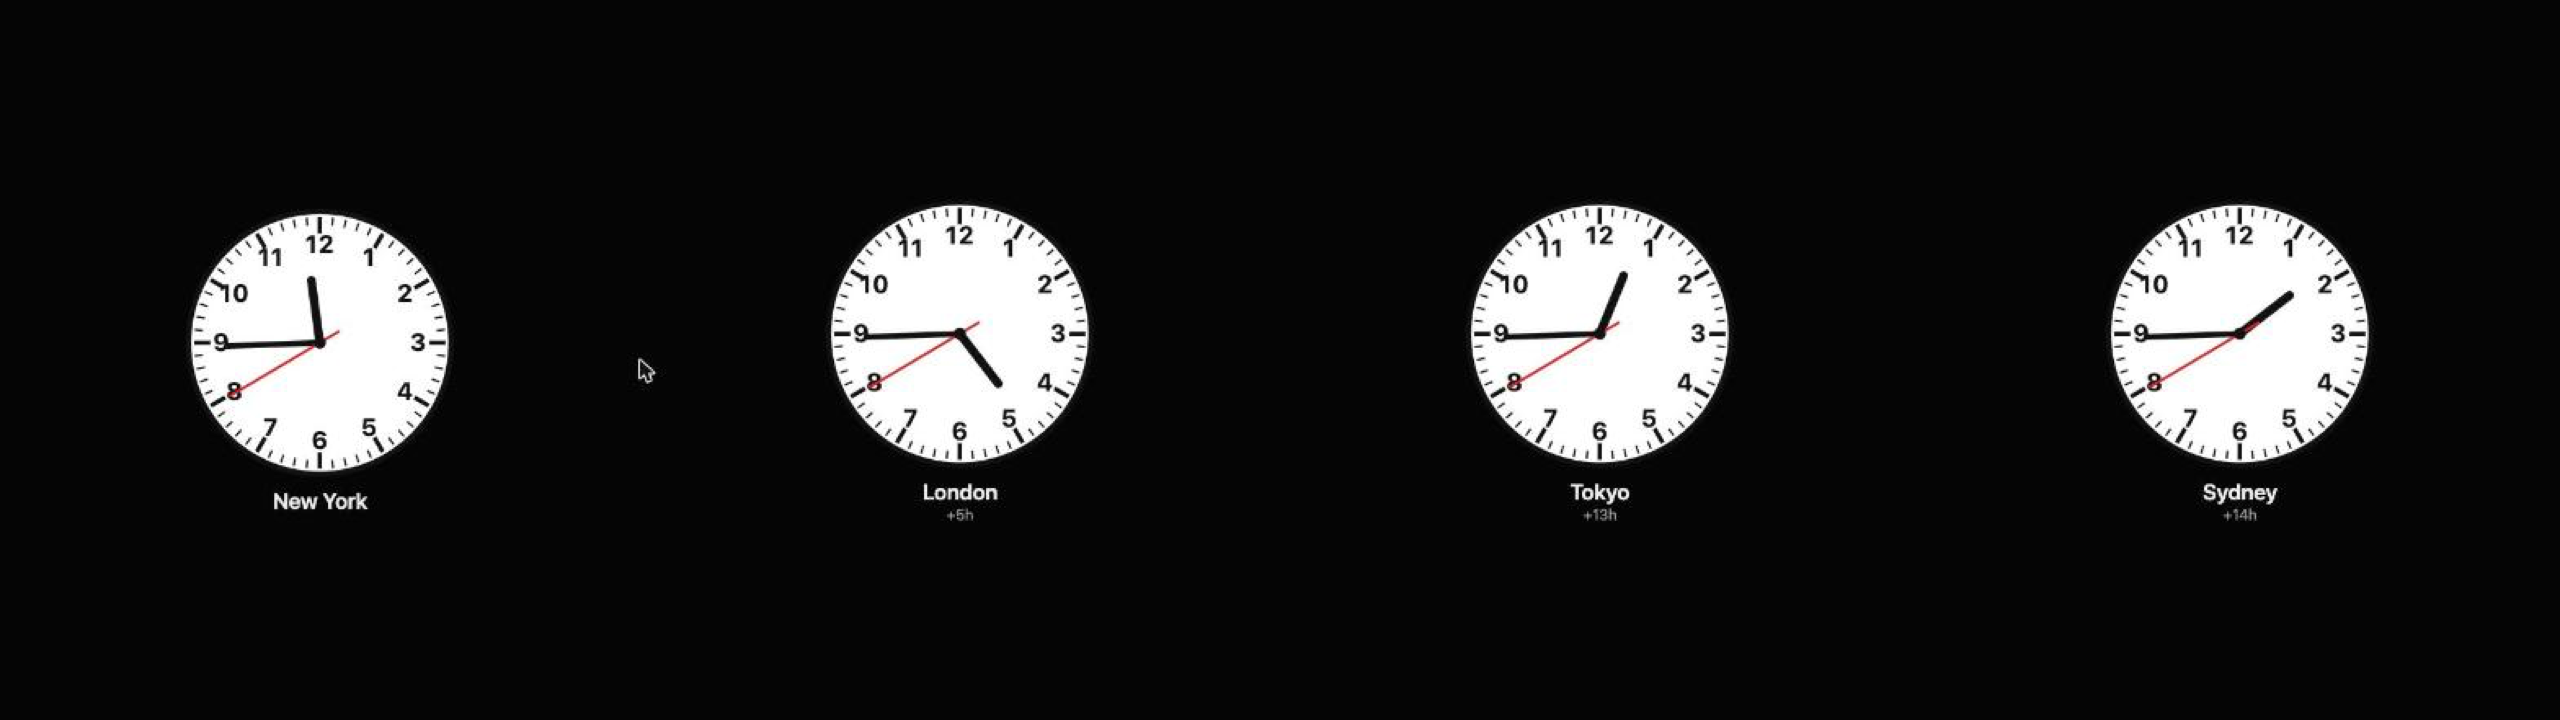
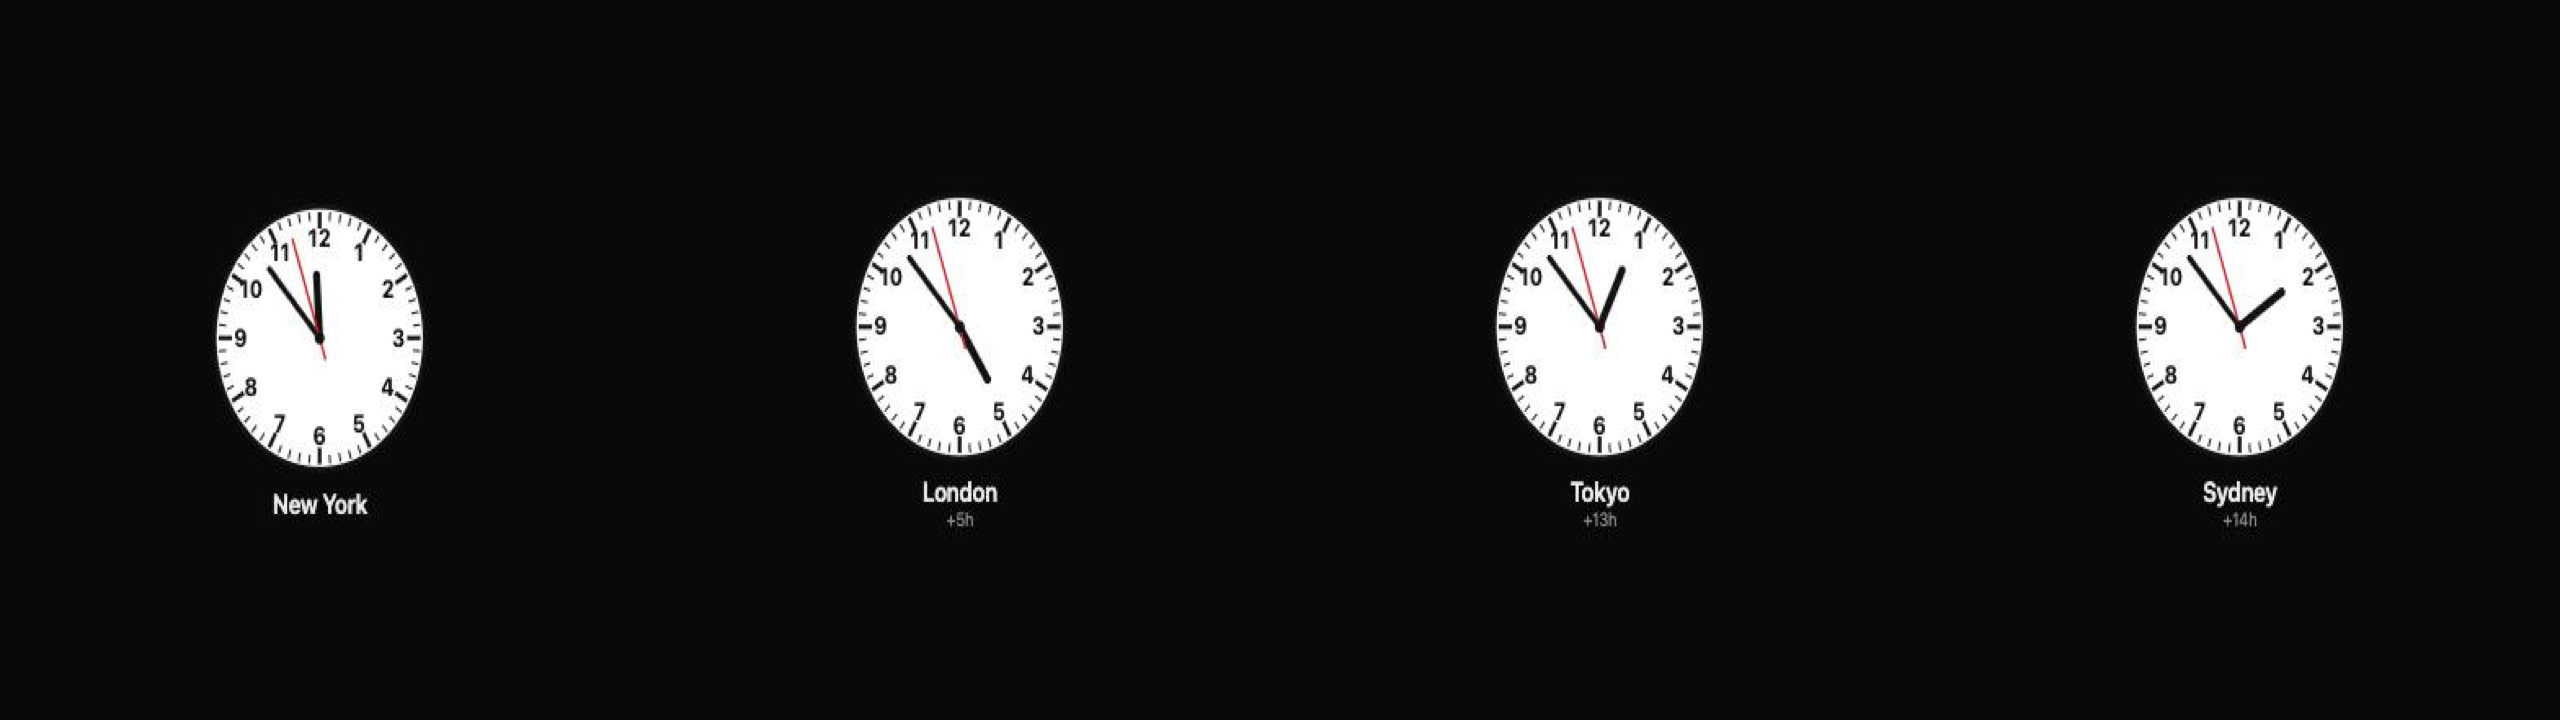
World Clocks: fix cursor-in-screenshot, backward hand spin, duplicate ids
- Re-capture world-clocks-8x2.png with the cursor out of frame (2560x720).
- tick() now uses setHandAngle(), which only ever increases each hand's
  stored rotation angle (adding 360 as needed) so the CSS transition never
  animates backwards at minute/hour/12h boundaries.
- Hand <line> elements use classes (hand-hour/minute/second) instead of
  duplicate ids across clock slots; updated all lookups and the CSS
  transition selector accordingly.

diff --git a/com.vardek.world-clocks/index.html b/com.vardek.world-clocks/index.html
@@ -21,7 +21,7 @@
     padding: clamp(4px, 1vw, 16px);
   }
   .clock-slot svg { width: 100%; height: auto; max-width: min(38vh, 90%); }
-  .clock-slot svg line[id^="hand-"] { transition: transform 0.15s ease-out; }
+  .clock-slot svg .hand { transition: transform 0.15s ease-out; }
   .city-name { color: #eee; font-family: ui-sans-serif, system-ui, sans-serif;
     font-weight: 600; font-size: clamp(11px, 1.6vw, 22px); margin-top: 0.4em; }
   .city-diff { color: #999; font-family: ui-sans-serif, system-ui, sans-serif;
@@ -215,11 +215,11 @@
     }
     svg.appendChild(numerals);
 
-    svg.appendChild(svgEl("line", { id: "hand-hour", x1: 50, y1: 50, x2: 50, y2: 27,
+    svg.appendChild(svgEl("line", { class: "hand hand-hour", x1: 50, y1: 50, x2: 50, y2: 27,
       stroke: "#111", "stroke-width": 3.2, "stroke-linecap": "round" }));
-    svg.appendChild(svgEl("line", { id: "hand-minute", x1: 50, y1: 50, x2: 50, y2: 16,
+    svg.appendChild(svgEl("line", { class: "hand hand-minute", x1: 50, y1: 50, x2: 50, y2: 16,
       stroke: "#111", "stroke-width": 2.2, "stroke-linecap": "round" }));
-    svg.appendChild(svgEl("line", { id: "hand-second", x1: 50, y1: 58, x2: 50, y2: 12,
+    svg.appendChild(svgEl("line", { class: "hand hand-second", x1: 50, y1: 58, x2: 50, y2: 12,
       stroke: "#d81c1c", "stroke-width": 1, "stroke-linecap": "round" }));
 
     svg.appendChild(svgEl("circle", { cx: 50, cy: 50, r: 2.2, fill: "#111" }));
@@ -238,6 +238,13 @@
     parts.forEach(function (x) { p[x.type] = x.value; });
     var h = Number(p.hour) % 24;
     return { h: h, m: Number(p.minute), s: Number(p.second), ms: now.getMilliseconds() };
+  }
+
+  function setHandAngle(el, deg) {
+    var prev = Number(el.dataset.deg || 0);
+    while (deg < prev) deg += 360;
+    el.dataset.deg = deg;
+    el.setAttribute("transform", "rotate(" + deg + " 50 50)");
   }
 
   function angles(parts) {
@@ -298,12 +305,12 @@
       var cityStr = slot.dataset.city;
       var tz = TZ_BY_CITY[cityStr];
       var a = angles(partsFor(tz));
-      var hourHand = slot.querySelector("#hand-hour");
-      var minHand = slot.querySelector("#hand-minute");
-      var secHand = slot.querySelector("#hand-second");
-      hourHand.setAttribute("transform", "rotate(" + a.hourDeg + " 50 50)");
-      minHand.setAttribute("transform", "rotate(" + a.minDeg + " 50 50)");
-      secHand.setAttribute("transform", "rotate(" + a.secDeg + " 50 50)");
+      var hourHand = slot.querySelector(".hand-hour");
+      var minHand = slot.querySelector(".hand-minute");
+      var secHand = slot.querySelector(".hand-second");
+      setHandAngle(hourHand, a.hourDeg);
+      setHandAngle(minHand, a.minDeg);
+      setHandAngle(secHand, a.secDeg);
       var diffEl = slot.querySelector(".city-diff");
       var delta = offsetMinutes(tz) - baseOffset;
       diffEl.textContent = formatDiff(delta);
